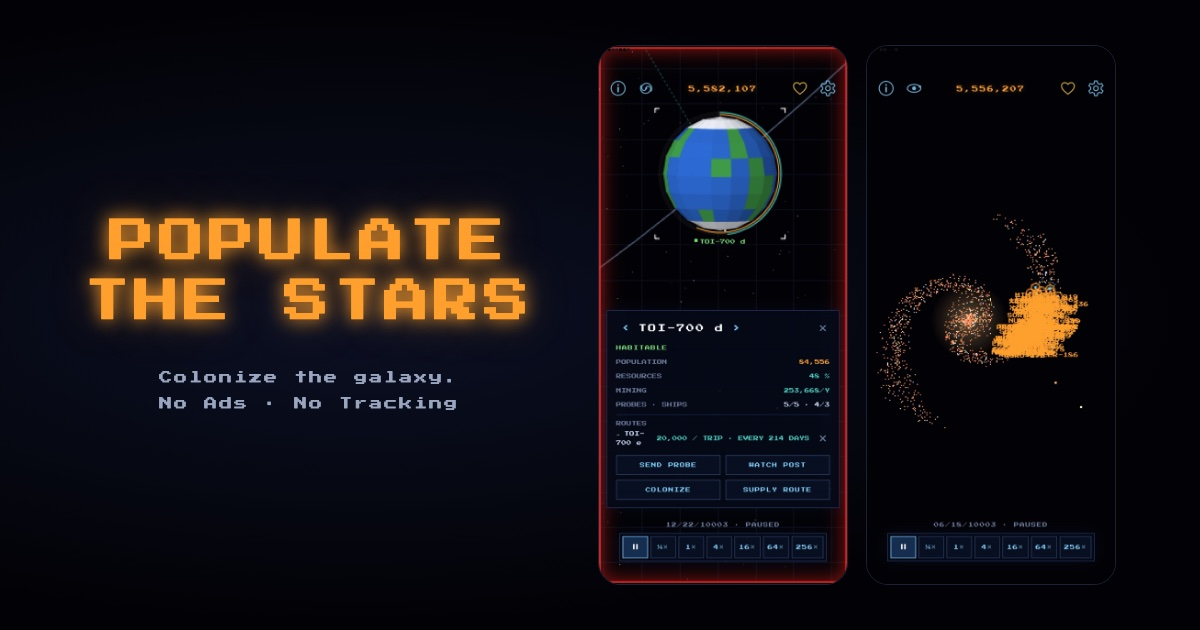
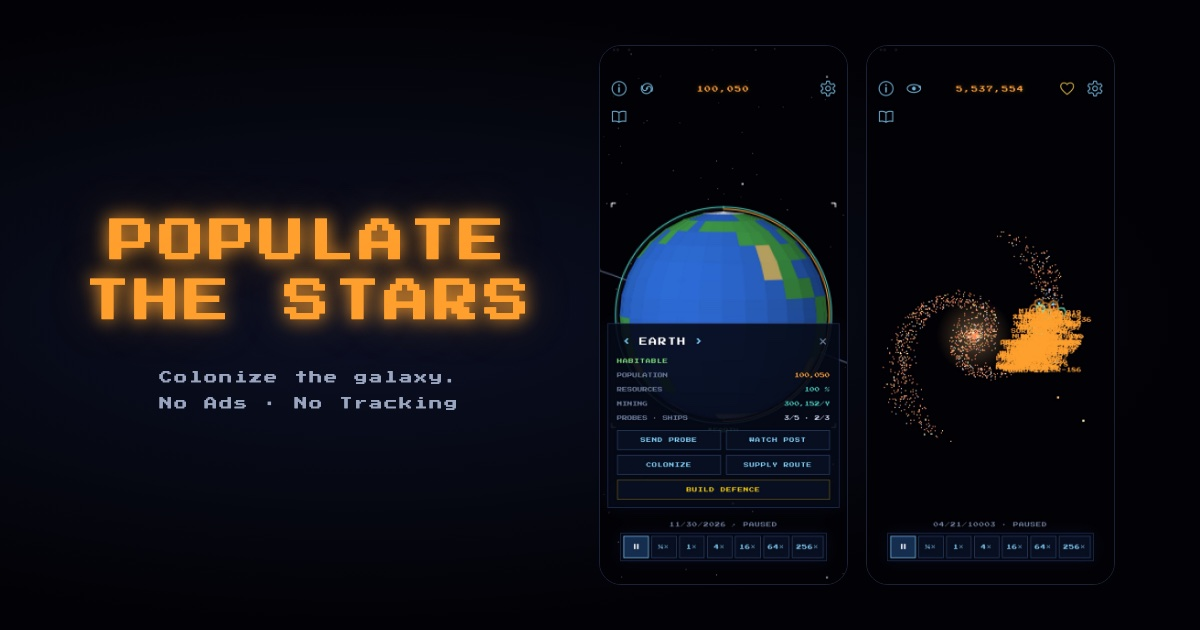
Latest screens

diff --git a/index.html b/index.html
@@ -19,13 +19,13 @@
         <meta property="og:image" content="https://www.populate-the-stars.com/assets/og-image.jpg" />
         <meta property="og:image:width" content="1200" />
         <meta property="og:image:height" content="630" />
-        <meta property="og:image:alt" content="Populate the Stars: the glowing pixel title next to two game screenshots, a colony world up close and the settled spiral galaxy" />
+        <meta property="og:image:alt" content="Populate the Stars: the glowing pixel title next to two game screenshots, Earth up close with its planet panel and the settled spiral galaxy" />
         <meta property="og:locale" content="en_US" />
         <meta name="twitter:card" content="summary_large_image" />
         <meta name="twitter:title" content="Populate the Stars – Colonize the galaxy" />
         <meta name="twitter:description" content="Pixel-retro space colonization game for iPhone and Mac. No ads, no tracking." />
         <meta name="twitter:image" content="https://www.populate-the-stars.com/assets/og-image.jpg" />
-        <meta name="twitter:image:alt" content="Populate the Stars: the glowing pixel title next to two game screenshots, a colony world up close and the settled spiral galaxy" />
+        <meta name="twitter:image:alt" content="Populate the Stars: the glowing pixel title next to two game screenshots, Earth up close with its planet panel and the settled spiral galaxy" />
 
         <script type="application/ld+json">
             {
@@ -40,12 +40,15 @@
                 "offers": { "@type": "Offer", "price": "0", "priceCurrency": "EUR" },
                 "image": "https://www.populate-the-stars.com/assets/og-image.jpg",
                 "screenshot": [
-                    "https://www.populate-the-stars.com/screenshots/01-world.jpg",
-                    "https://www.populate-the-stars.com/screenshots/02-system.jpg",
-                    "https://www.populate-the-stars.com/screenshots/03-colony-ship.jpg",
-                    "https://www.populate-the-stars.com/screenshots/04-freighter.jpg",
-                    "https://www.populate-the-stars.com/screenshots/05-galaxy.jpg",
-                    "https://www.populate-the-stars.com/screenshots/06-asteroid.jpg"
+                    "https://www.populate-the-stars.com/screenshots/01-solar-system.jpg",
+                    "https://www.populate-the-stars.com/screenshots/02-earth.jpg",
+                    "https://www.populate-the-stars.com/screenshots/03-probe.jpg",
+                    "https://www.populate-the-stars.com/screenshots/04-colony-ship.jpg",
+                    "https://www.populate-the-stars.com/screenshots/05-neighbours.jpg",
+                    "https://www.populate-the-stars.com/screenshots/06-colonies.jpg",
+                    "https://www.populate-the-stars.com/screenshots/07-gate.jpg",
+                    "https://www.populate-the-stars.com/screenshots/08-galaxy.jpg",
+                    "https://www.populate-the-stars.com/screenshots/09-compendium.jpg"
                 ],
                 "operatingSystem": "iOS",
                 "applicationCategory": "GameApplication",
@@ -197,7 +200,7 @@
                 display: block;
                 width: min(200px, 44vw);
                 height: auto;
-                aspect-ratio: 1320 / 2868;
+                aspect-ratio: 1206 / 2622;
                 border: 1px solid #1a2238;
                 border-radius: 12px;
                 transition: border-color 0.2s;
@@ -248,6 +251,19 @@
                 font-size: var(--ps-2);
                 line-height: 1.8;
                 text-align: center;
+            }
+
+            /* Read by screen readers, not shown. */
+            .viewer .sr-only {
+                position: absolute;
+                width: 1px;
+                height: 1px;
+                margin: -1px;
+                padding: 0;
+                overflow: hidden;
+                clip: rect(0 0 0 0);
+                white-space: nowrap;
+                border: 0;
             }
 
             .viewer .bar {
@@ -348,33 +364,48 @@
             <section class="screenshots" aria-label="Screenshots">
                 <ul class="shots">
                     <li>
-                        <a href="screenshots/01-world.jpg">
-                            <img src="screenshots/small/01-world.jpg" width="400" height="869" loading="lazy" alt="The colony world TOI-700 d up close with its population and resource rings; its panel shows population, resources, mining, a supply route and the buttons Send probe, Watch post, Colonize and Supply route." />
+                        <a href="screenshots/01-solar-system.jpg">
+                            <img src="screenshots/small/01-solar-system.jpg" width="400" height="869" loading="lazy" alt="The solar system seen from above: the Sun, Venus and Earth on their orbits; Venus and Mars are still unexplored and marked with a question mark." />
                         </a>
                     </li>
                     <li>
-                        <a href="screenshots/02-system.jpg">
-                            <img src="screenshots/small/02-system.jpg" width="400" height="869" loading="lazy" alt="The inner solar system: Earth, Mars and Mercury on their orbits, ships on their transfer paths and a space telescope keeping watch." />
+                        <a href="screenshots/02-earth.jpg">
+                            <img src="screenshots/small/02-earth.jpg" width="400" height="869" loading="lazy" alt="Earth up close with its population and resource rings; its panel shows population, resources and mining and the buttons Send probe, Watch post, Colonize, Supply route and Build defence." />
                         </a>
                     </li>
                     <li>
-                        <a href="screenshots/03-colony-ship.jpg">
-                            <img src="screenshots/small/03-colony-ship.jpg" width="400" height="869" loading="lazy" alt="A colony ship with its turning gravity ring on its way from Earth to Enceladus, with 4,653 settlers on board." />
+                        <a href="screenshots/03-probe.jpg">
+                            <img src="screenshots/small/03-probe.jpg" width="400" height="869" loading="lazy" alt="A probe on its way from Earth to Jupiter – arrival in 3 years." />
                         </a>
                     </li>
                     <li>
-                        <a href="screenshots/04-freighter.jpg">
-                            <img src="screenshots/small/04-freighter.jpg" width="400" height="869" loading="lazy" alt="A freighter on a supply route between two colonies of the red dwarf Gliese 1061, space telescopes on their orbits." />
+                        <a href="screenshots/04-colony-ship.jpg">
+                            <img src="screenshots/small/04-colony-ship.jpg" width="400" height="869" loading="lazy" alt="A colony ship on its way from Earth to Mars with 3,958 settlers and supplies on board, arrival in 147 days; around the Sun lies the asteroid belt." />
                         </a>
                     </li>
                     <li>
-                        <a href="screenshots/05-galaxy.jpg">
-                            <img src="screenshots/small/05-galaxy.jpg" width="400" height="869" loading="lazy" alt="The spiral galaxy with about 1,600 stars; a wide region around Sol is settled, the colonies glow orange." />
+                        <a href="screenshots/05-neighbours.jpg">
+                            <img src="screenshots/small/05-neighbours.jpg" width="400" height="869" loading="lazy" alt="Neighbouring stars around Sol, among them Sirius, Alpha Centauri, Barnard's Star, Tau Ceti and Vega." />
                         </a>
                     </li>
                     <li>
-                        <a href="screenshots/06-asteroid.jpg">
-                            <img src="screenshots/small/06-asteroid.jpg" width="400" height="869" loading="lazy" alt="An asteroid heading for the colony TOI-700 d, impact in 5 days – the red border warns that a colony is in danger." />
+                        <a href="screenshots/06-colonies.jpg">
+                            <img src="screenshots/small/06-colonies.jpg" width="400" height="869" loading="lazy" alt="A densely settled region of the galaxy: dozens of colonized star systems, marked with orange rings." />
+                        </a>
+                    </li>
+                    <li>
+                        <a href="screenshots/07-gate.jpg">
+                            <img src="screenshots/small/07-gate.jpg" width="400" height="869" loading="lazy" alt="A gate in the Zethomor 236 system, open since the year 9780 and linked to 6 other gates." />
+                        </a>
+                    </li>
+                    <li>
+                        <a href="screenshots/08-galaxy.jpg">
+                            <img src="screenshots/small/08-galaxy.jpg" width="400" height="869" loading="lazy" alt="The spiral galaxy with about 1,600 stars; a wide region is settled, the colonies glow orange." />
+                        </a>
+                    </li>
+                    <li>
+                        <a href="screenshots/09-compendium.jpg">
+                            <img src="screenshots/small/09-compendium.jpg" width="400" height="869" loading="lazy" alt="The in-game compendium: its entry on asteroids explains collision courses, watch posts and interceptor probes." />
                         </a>
                     </li>
                 </ul>
@@ -394,9 +425,11 @@
             <div class="made">MADE WITH <span class="heart" role="img" aria-label="love">♥</span> IN JAVASCRIPT</div>
         </footer>
 
-        <dialog class="viewer" id="viewer" aria-labelledby="viewer-caption">
+        <dialog class="viewer" id="viewer" aria-label="Screenshot">
             <img id="viewer-img" alt="" />
-            <p id="viewer-caption"></p>
+            <!-- Visible: only "2 / 9". Screen readers get the description via the live region. -->
+            <p id="viewer-caption" aria-hidden="true"></p>
+            <p id="viewer-status" class="sr-only" aria-live="polite"></p>
             <div class="bar">
                 <button type="button" id="viewer-prev" aria-label="Previous screenshot">‹</button>
                 <button type="button" id="viewer-close" aria-label="Close">✕</button>
@@ -414,13 +447,17 @@
                 const viewer = document.getElementById('viewer');
                 const img = document.getElementById('viewer-img');
                 const caption = document.getElementById('viewer-caption');
+                const status = document.getElementById('viewer-status');
                 let current = 0;
                 const show = i => {
                     current = (i + links.length) % links.length;
                     const thumb = links[current].querySelector('img');
+                    const position = `Screenshot ${current + 1} of ${links.length}`;
                     img.src = links[current].href;
                     img.alt = thumb.alt;
-                    caption.textContent = `${current + 1} / ${links.length} – ${thumb.alt}`;
+                    caption.textContent = `${current + 1} / ${links.length}`;
+                    status.textContent = `${position}: ${thumb.alt}`;
+                    viewer.setAttribute('aria-label', position);
                 };
                 if (typeof viewer.showModal === 'function') {
                     links.forEach((a, i) =>

diff --git a/README.md b/README.md
@@ -9,7 +9,7 @@ Live: <https://www.populate-the-stars.com/> – Deploy per GitHub Actions bei je
 | `index.html` | Promo-Seite |
 | `legal.html` | Impressum + Datenschutz, `?lang=de` · `en` · `fr` · `es` · `pt` · `pt-BR` (sonst Browsersprache) |
 | `assets/` | Icon, App-Store-Badge, `og-image.jpg` (1200 × 630, Vorschau für Social Media) |
-| `screenshots/` | Originale für die Lightbox (englische iPhone-Screenshots der 1.0, verkleinert auf 1080 × 2346), `small/` Vorschauen: `sips --resampleWidth 400 -s format jpeg -s formatOptions 82 01-world.jpg --out small/01-world.jpg` |
+| `screenshots/` | Originale für die Lightbox (aus `sol/screenshots/out-iphone/en`, 6,3″, verkleinert auf 1080 × 2348), `small/` Vorschauen: `sips --resampleWidth 400 -s format jpeg -s formatOptions 82 01-solar-system.jpg --out small/01-solar-system.jpg` |
 
 ## Generierte Teile
 
